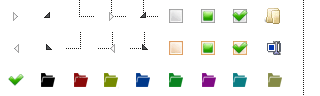
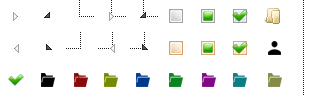
add indikatro tujuan dan distribusi ke eselon 4

Changed region(s): [[0.8125, 0.4062, 0.875, 0.5938]]

diff --git a/public/assets/jstree/themes/default/style.css b/public/assets/jstree/themes/default/style.css
@@ -543,11 +543,16 @@
 
 
 .jstree-default .jstree-kegiatan {
-  background: url("32px.png") -200px -68px no-repeat;
+  background: url("32px.png") -230px -68px no-repeat;
 }
 
 .jstree-default .jstree-ind_kegiatan {
   background: url("32px.png") -230px -68px no-repeat;
+}
+
+
+.jstree-default .jstree-people {
+  background: url("32px.png") -263px -38px no-repeat;
 }
 
 .jstree-default .jstree-file {

diff --git a/app/Http/Controllers/API/RenjaAPIController.php b/app/Http/Controllers/API/RenjaAPIController.php
@@ -9,6 +9,7 @@ use App\Models\PerjanjianKinerja;
 
 
 use App\Models\Tujuan;
+use App\Models\IndikatorTujuan;
 use App\Models\Sasaran;
 use App\Models\Skpd;
 
@@ -101,12 +102,19 @@ class RenjaAPIController extends Controller {
 //TUJUAN
         $tujuan = Tujuan::where('renja_id','=','2')->select('id','label')->get();
 		foreach ($tujuan as $x) {
-            $sub_data['id']	            = "tujuan".$x->id;
-			$sub_data['text']			= Pustaka::capital_string($x->label);
-            $sub_data['icon']           = "jstree-tujuan";
+            $sub_data_tujuan['id']	            = "tujuan".$x->id;
+			$sub_data_tujuan['text']			= Pustaka::capital_string($x->label);
+            $sub_data_tujuan['icon']           = "jstree-tujuan";
+
+//INDIKATOR TUJUAN 
+            $ind_tujuan = IndikatorTujuan::where('tujuan_id','=',$x->id)->select('id','label')->get();
+            foreach ($ind_tujuan as $v) {
+                $sub_data_ind_tujuan['id']		        = "ind_tujuan".$v->id;
+                $sub_data_ind_tujuan['text']			= Pustaka::capital_string($v->label);
+                $sub_data_ind_tujuan['icon']            = "";
             
 //SASARAN 
-            $sasaran = Sasaran::where('tujuan_id','=',$x->id)->select('id','label')->get();
+            $sasaran = Sasaran::where('indikator_tujuan_id','=',$v->id)->select('id','label')->get();
             foreach ($sasaran as $y) {
                 $sub_data_sasaran['id']		        = "sasaran".$y->id;
                 $sub_data_sasaran['text']			= Pustaka::capital_string($y->label);
@@ -211,13 +219,24 @@ class RenjaAPIController extends Controller {
             
 
             if(!empty($sasaran_list)) { 
-                $sub_data['children']       = $sasaran_list;
+                $sub_data_ind_tujuan['children']       = $sasaran_list;
             }
-            $data[] = $sub_data ;	
-            //reset sasaran list
+            $ind_tujuan_list[] = $sub_data_ind_tujuan ;	
             $sasaran_list = "";
-            unset($sub_data['children']);
-		}	
+            unset($sub_data_ind_tujuan['children']);
+        }	
+
+
+        if(!empty($ind_tujuan_list)) { 
+            $sub_data_tujuan['children']       = $ind_tujuan_list;
+        }
+        $data[] = $sub_data_tujuan ;	
+        //reset sasaran list
+        $ind_tujuan_list = "";
+        unset($sub_data_tujuan['children']);
+    }	
+        
+        
         
        
 		return $data;
@@ -230,51 +249,66 @@ class RenjaAPIController extends Controller {
     {
        
 
-        $pejabat = SKPD::where('parent_id','=','42')->select('id','skpd')->get();
-		foreach ($pejabat as $x) {
-            $data_pejabat['id']	            = "pejabat".$x->id;
-			$data_pejabat['text']			= Pustaka::capital_string($x->skpd);
-            $data_pejabat['icon']           = "jstree-tujuan";
+        $ka_skpd = SKPD::where('parent_id','=','42')->select('id','skpd')->get();
+		foreach ($ka_skpd as $x) {
+            $data_ka_skpd['id']	            = "ka_skpd".$x->id;
+			$data_ka_skpd['text']			= Pustaka::capital_string($x->skpd);
+            $data_ka_skpd['icon']           = "jstree-people";
             
 
-            $bawahan = SKPD::where('parent_id','=',$x->id)->select('id','skpd')->get();
+            $kabid = SKPD::where('parent_id','=',$x->id)->select('id','skpd')->get();
+            foreach ($kabid as $y) {
+                $data_kabid['id']	        = "kabid".$y->id;
+                $data_kabid['text']			= Pustaka::capital_string($y->skpd);
+                $data_kabid['icon']         = "jstree-people";
 
-            foreach ($bawahan as $y) {
-                $data_bawahan['id']	            = "bawahan".$y->id;
-                $data_bawahan['text']			= Pustaka::capital_string($y->skpd);
-                $data_bawahan['icon']           = "jstree-file";
-                
 
-                $kegiatan = Kegiatan::WHERE('jabatan_id','=',$y->id)->select('id','label')->get();
-                foreach ($kegiatan as $z) {
-                    $data_kegiatan['id']	        = "kegiatan".$z->id;
-                    $data_kegiatan['text']			= Pustaka::capital_string($z->label);
-                    $data_bawahan['icon']           = "jstree-kegiatan";
+                $kasubid = SKPD::where('parent_id','=',$y->id)->select('id','skpd')->get();
+                foreach ($kasubid as $z) {
+                    $data_kasubid['id']	            = "kasubid".$z->id;
+                    $data_kasubid['text']			= Pustaka::capital_string($z->skpd);
+                    $data_kasubid['icon']           = "jstree-people";
                     
-    
-                    $kegiatan_list[] = $data_kegiatan ;
+
+                    $kegiatan = Kegiatan::WHERE('jabatan_id','=',$z->id)->select('id','label')->get();
+                    foreach ($kegiatan as $a) {
+                        $data_kegiatan['id']	        = "kegiatan".$a->id;
+                        $data_kegiatan['text']			= '<font style="font-family:mainandra;">'.Pustaka::capital_string($a->label).'</font>';
+                        $data_kegiatan['icon']          = "jstree-kegiatan";
+                        
+        
+                        $kegiatan_list[] = $data_kegiatan ;
                    
                     }
-                if(!empty($kegiatan_list)) {
-                    $data_bawahan['children']     = $kegiatan_list;
+
+                    if(!empty($kegiatan_list)) {
+                        $data_kasubid['children']     = $kegiatan_list;
+                    }
+                    $kasubid_list[] = $data_kasubid ;
+                    $kegiatan_list = "";
+                    unset($data_kasubid['children']);
+                
                 }
-                $bawahan_list[] = $data_bawahan ;
-                $kegiatan_list = "";
-                unset($data_bawahan['children']);
-               
+
+                if(!empty($kasubid_list)) {
+                    $data_kabid['children']     = $kasubid_list;
                 }
-               
-               
-
-            }	
-
-
-            if(!empty($bawahan_list)) {
-                $data_pejabat['children']     = $bawahan_list;
+                $kabid_list[] = $data_kabid ;
+                $kasubid_list = "";
+                unset($data_kabid['children']);
+            
             }
-            $data[] = $data_pejabat ;	
-            $bawahan_list = "";
-            unset($data_pejabat['children']);
+               
+               
+
+        }	
+
+            if(!empty($kabid_list)) {
+                $data_ka_skpd['children']     = $kabid_list;
+            }
+            $data[] = $data_ka_skpd ;	
+            $kabid_list = "";
+            unset($data_ka_skpd['children']);
 		
 		return $data;
         

diff --git a/app/Http/Controllers/SKPTahunanController.php b/app/Http/Controllers/SKPTahunanController.php
@@ -9,7 +9,7 @@ use App\Models\User;
 use App\Models\Role;
 use App\Models\Skpd;
 use App\Models\Periode;
-
+use App\Models\Renja;
 use App\Models\SKPTahunan;
 use App\Models\Kegiatan;
 
@@ -41,7 +41,7 @@ class SKPTahunanController extends Controller {
 
 
    
-    protected function skpd()
+ /*    protected function skpd()
 	{
         $data =  \Auth::user()->pegawai->history_jabatan->where('status','active')->first()->id_skpd;
         return Skpd::where('id_skpd', $data)->first();
@@ -60,8 +60,59 @@ class SKPTahunanController extends Controller {
         		'user' 		=> $this->user()
 	  			]
         );    
-    }
+    } */
 
+    public function SKPTahunanDetail($skp_tahunan_id)
+	{
+        
+    
+        $skp_tahunan	= Renja::where('id', '=', 2)
+                        ->select('id','periode_id','skpd_id','kepala_skpd_id','admin_skpd_id','status','created_at')
+                        ->first();
+
+
+        $pejabat_penilai    = null ;
+        if ( $pejabat_penilai == null ){
+            $nip_penilai                        = "";
+            $nama_pejabat_penilai               = "";
+            $pangkat_golongan_pejabat_penilai   = "";
+            $jabatan_pejabat_penilai            = "";
+            $eselon_pejabat_penilai             = "";
+            $unit_kerja_pejabat_penilai         = "";
+        }else{
+            $nip_penilai                        = "";
+            $nama_pejabat_penilai               = "";//$skp_tahunan->p_nama;
+            $pangkat_golongan_pejabat_penilai   = "";//$pejabat_penilai->golongan->pangkat .'/'. $pejabat_penilai->golongan->golongan;
+            $jabatan_pejabat_penilai            = "";
+            $eselon_pejabat_penilai             = "";//$pejabat_penilai->eselon->eselon;
+            $unit_kerja_pejabat_penilai         = "";//Pustaka::capital_string($pejabat_penilai->UnitKerja->unit_kerja);
+        }
+
+
+      
+
+
+        return view('admin.pages.skpd-skp_tahunan_detail', [
+                    
+                    'skp'                   => $skp_tahunan,
+
+
+                    
+
+                    /* 
+                    'nip_penilai'                       => $nip_penilai,
+                    'nama_pejabat_penilai'              => $nama_pejabat_penilai,
+                    'pangkat_golongan_pejabat_penilai'  => $pangkat_golongan_pejabat_penilai,
+                    'jabatan_pejabat_penilai'           => $jabatan_pejabat_penilai,
+                    'eselon_pejabat_penilai'            => $eselon_pejabat_penilai,
+                    'unit_kerja_pejabat_penilai'        => $unit_kerja_pejabat_penilai,
+
+
+                    'kegiatan_pk'                       => $kegiatan_pk, */
+                    ]
+        );    
+
+    }
 
     public function SKPTahunanPersonalEdit($skp_tahunan_id)
 	{

diff --git a/resources/views/admin/detail_form/skp_tahunan_detail.blade.php b/resources/views/admin/detail_form/skp_tahunan_detail.blade.php
@@ -24,7 +24,7 @@
 				<div class="form-group form-group-sm" style="margin-top:10px;">
 					<label class="col-md-4">Tanggal dibuat</label>
 					<div class="col-md-8">
-						<span id="date_created" class="form-control"></span>
+						<span id="date_created" class="form-control">{{ $skp }}</span>
 					</div>
 				</div>
 
@@ -231,7 +231,7 @@ $(document).on('click', '.btn_edit_pejabat', function(){
             data			: function (params) {
                 var queryParameters = {
                     nama: params.term,
-					skp_tahunan_id:{{$skp_tahunan->id}}
+					skp_tahunan_id:{{$skp}}
                 }
                 return queryParameters;
             },
@@ -292,7 +292,7 @@ $(document).on('click', '.btn_edit_pejabat', function(){
 		$.ajax({
 			url     	: '{{ url("api_resource/set_pejabat_penilai_skp_tahunan") }}',
 			type    	: "POST",
-			data    	: { skp_tahunan_id: {{ $skp_tahunan->id }}, pegawai_id  : pegawai_id },
+			data    	: { skp_tahunan_id: {{ $skp }}, pegawai_id  : pegawai_id },
 			success		: function (data) {
 
 				$('.btn_batal_pejabat').addClass('hidden');

diff --git a/resources/views/admin/pages/skpd-skp_tahunan_detail.blade.php b/resources/views/admin/pages/skpd-skp_tahunan_detail.blade.php
@@ -1,0 +1,31 @@
+@extends('admin.layouts.dashboard')
+
+@section('template_title')
+{{ Pustaka::nama_pegawai(\Auth::user()->pegawai->gelardpn , \Auth::user()->pegawai->nama , \Auth::user()->pegawai->gelarblk)  }}
+@stop
+
+
+@section('content')
+	 <div class="content-wrapper">
+	    <section class="content-header">
+			<h1>
+				SKP Tahunan
+			</h1>
+				{!! Breadcrumbs::render('personal_edit_skp_tahunan') !!}
+      </section>
+	    <section class="content">
+			<div class="row">
+				<div class="col-md-12">
+					
+					@include('admin.detail_form.skp_tahunan_detail')
+
+					
+					
+				</div>
+			</div>
+
+
+				
+	    </section>
+	</div>
+@stop

diff --git a/app/Http/Controllers/API/StrukturOrganisasiAPIController.php b/app/Http/Controllers/API/StrukturOrganisasiAPIController.php
@@ -105,7 +105,7 @@ class StrukturOrganisasiAPIController extends Controller {
 			$sub_data['jabatan']			= Pustaka::capital_string($x->skpd);
 			$sub_data['nip']				= $x->nip;
 			$sub_data['eselon']				= $x->eselon;
-			$sub_data['jenis_jabatan']		= $x->jenis_jabatan;
+			$sub_data['jenis_jabatan']		= $x->jenis_jabatan . $x->id;
 			$sub_data['itemTitleColor']		= "#4b0082";
 			$sub_data['groupTitleColor']	= "primitives.common.Colors.Green";
 			

diff --git a/app/Models/IndikatorTujuan.php b/app/Models/IndikatorTujuan.php
@@ -1,0 +1,23 @@
+<?php
+
+namespace App\Models;
+
+use Illuminate\Database\Eloquent\Model;
+
+class IndikatorTujuan extends Model
+{
+    protected $table = 'renja_indikator_tujuan';
+
+
+
+   /* public function program()
+    {
+        return $this->hasMany('App\Models\Program');
+    }
+
+
+    public function sasaran_perjanjian_kinerja()
+    {
+        return $this->belongsTo('App\Models\SasaranPerjanjianKinerja');
+    }  */
+}

diff --git a/app/Http/routes.php b/app/Http/routes.php
@@ -478,7 +478,7 @@ Route::group(['prefix' => 'skpd','middleware' => 'skpd'], function () {
 	//----------------------------------------------------------------------------------------//
 	Route::get('skp_tahunan/{skp_tahunan_id}',[
 		'as' 			=> '',
-		'uses' 			=> 'SKPTahunanController@SKPTahunanPersonalEdit'
+		'uses' 			=> 'SKPTahunanController@SKPTahunanDetail'
 	]);
 
 
